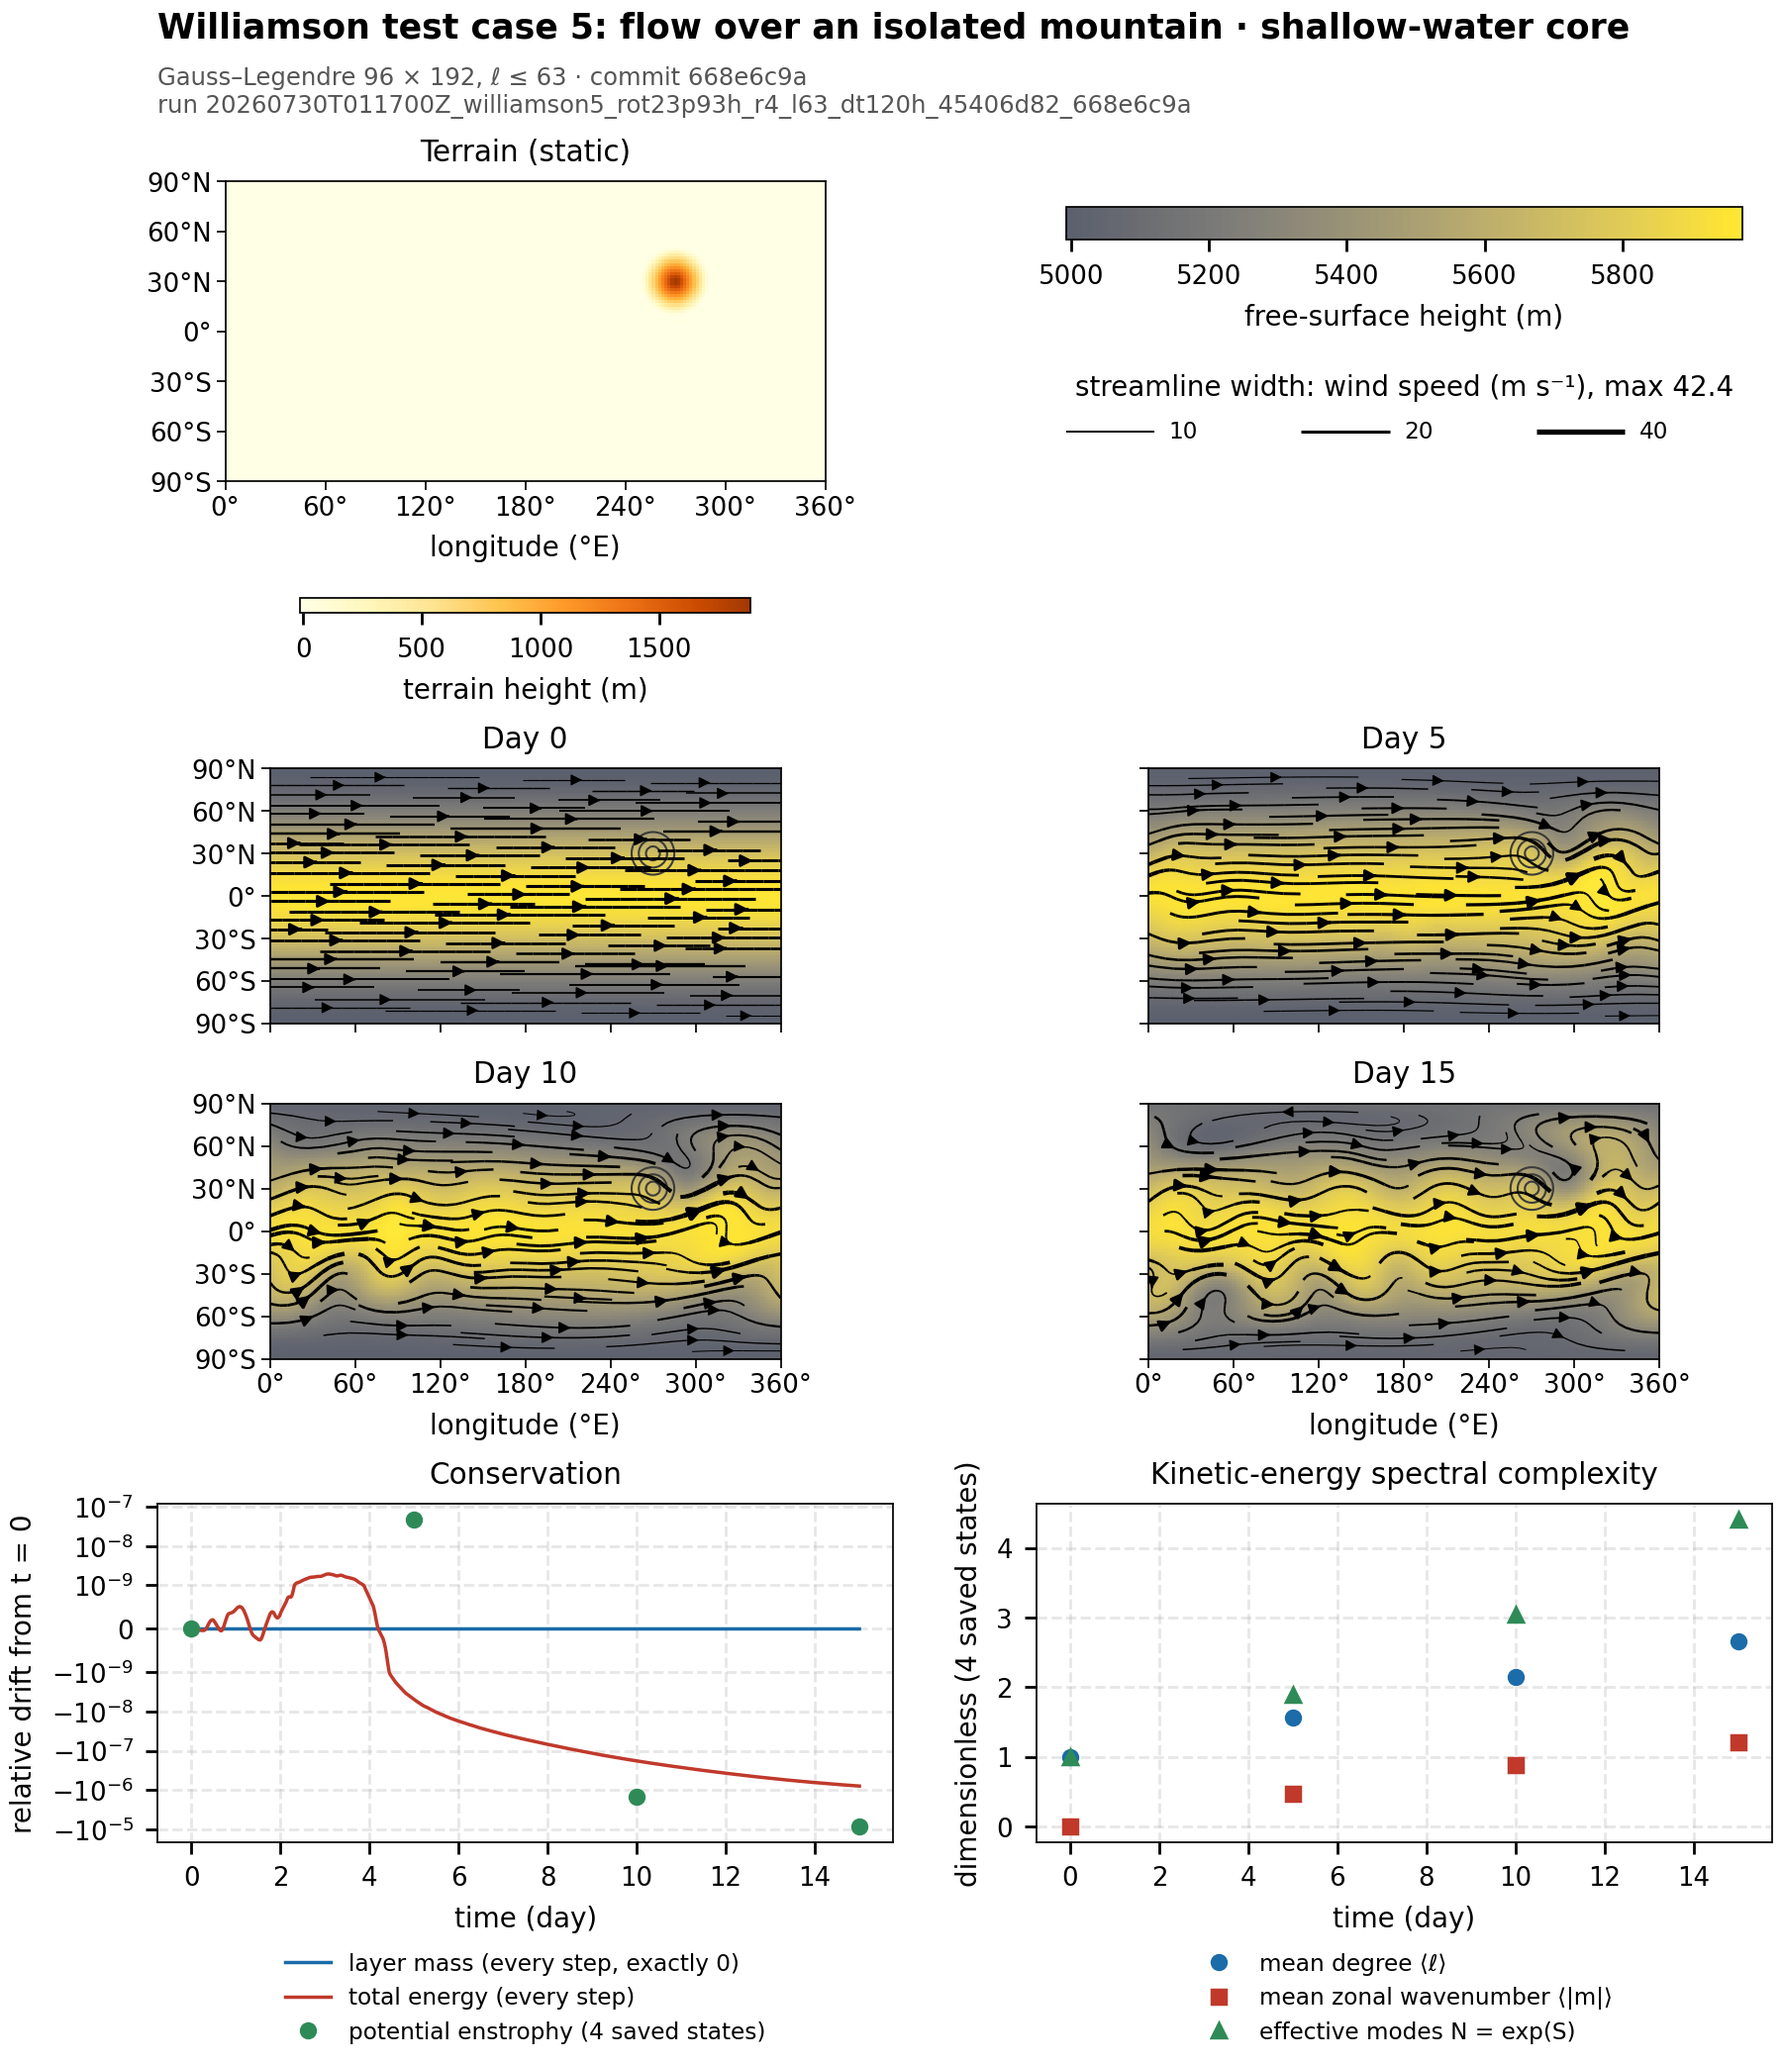
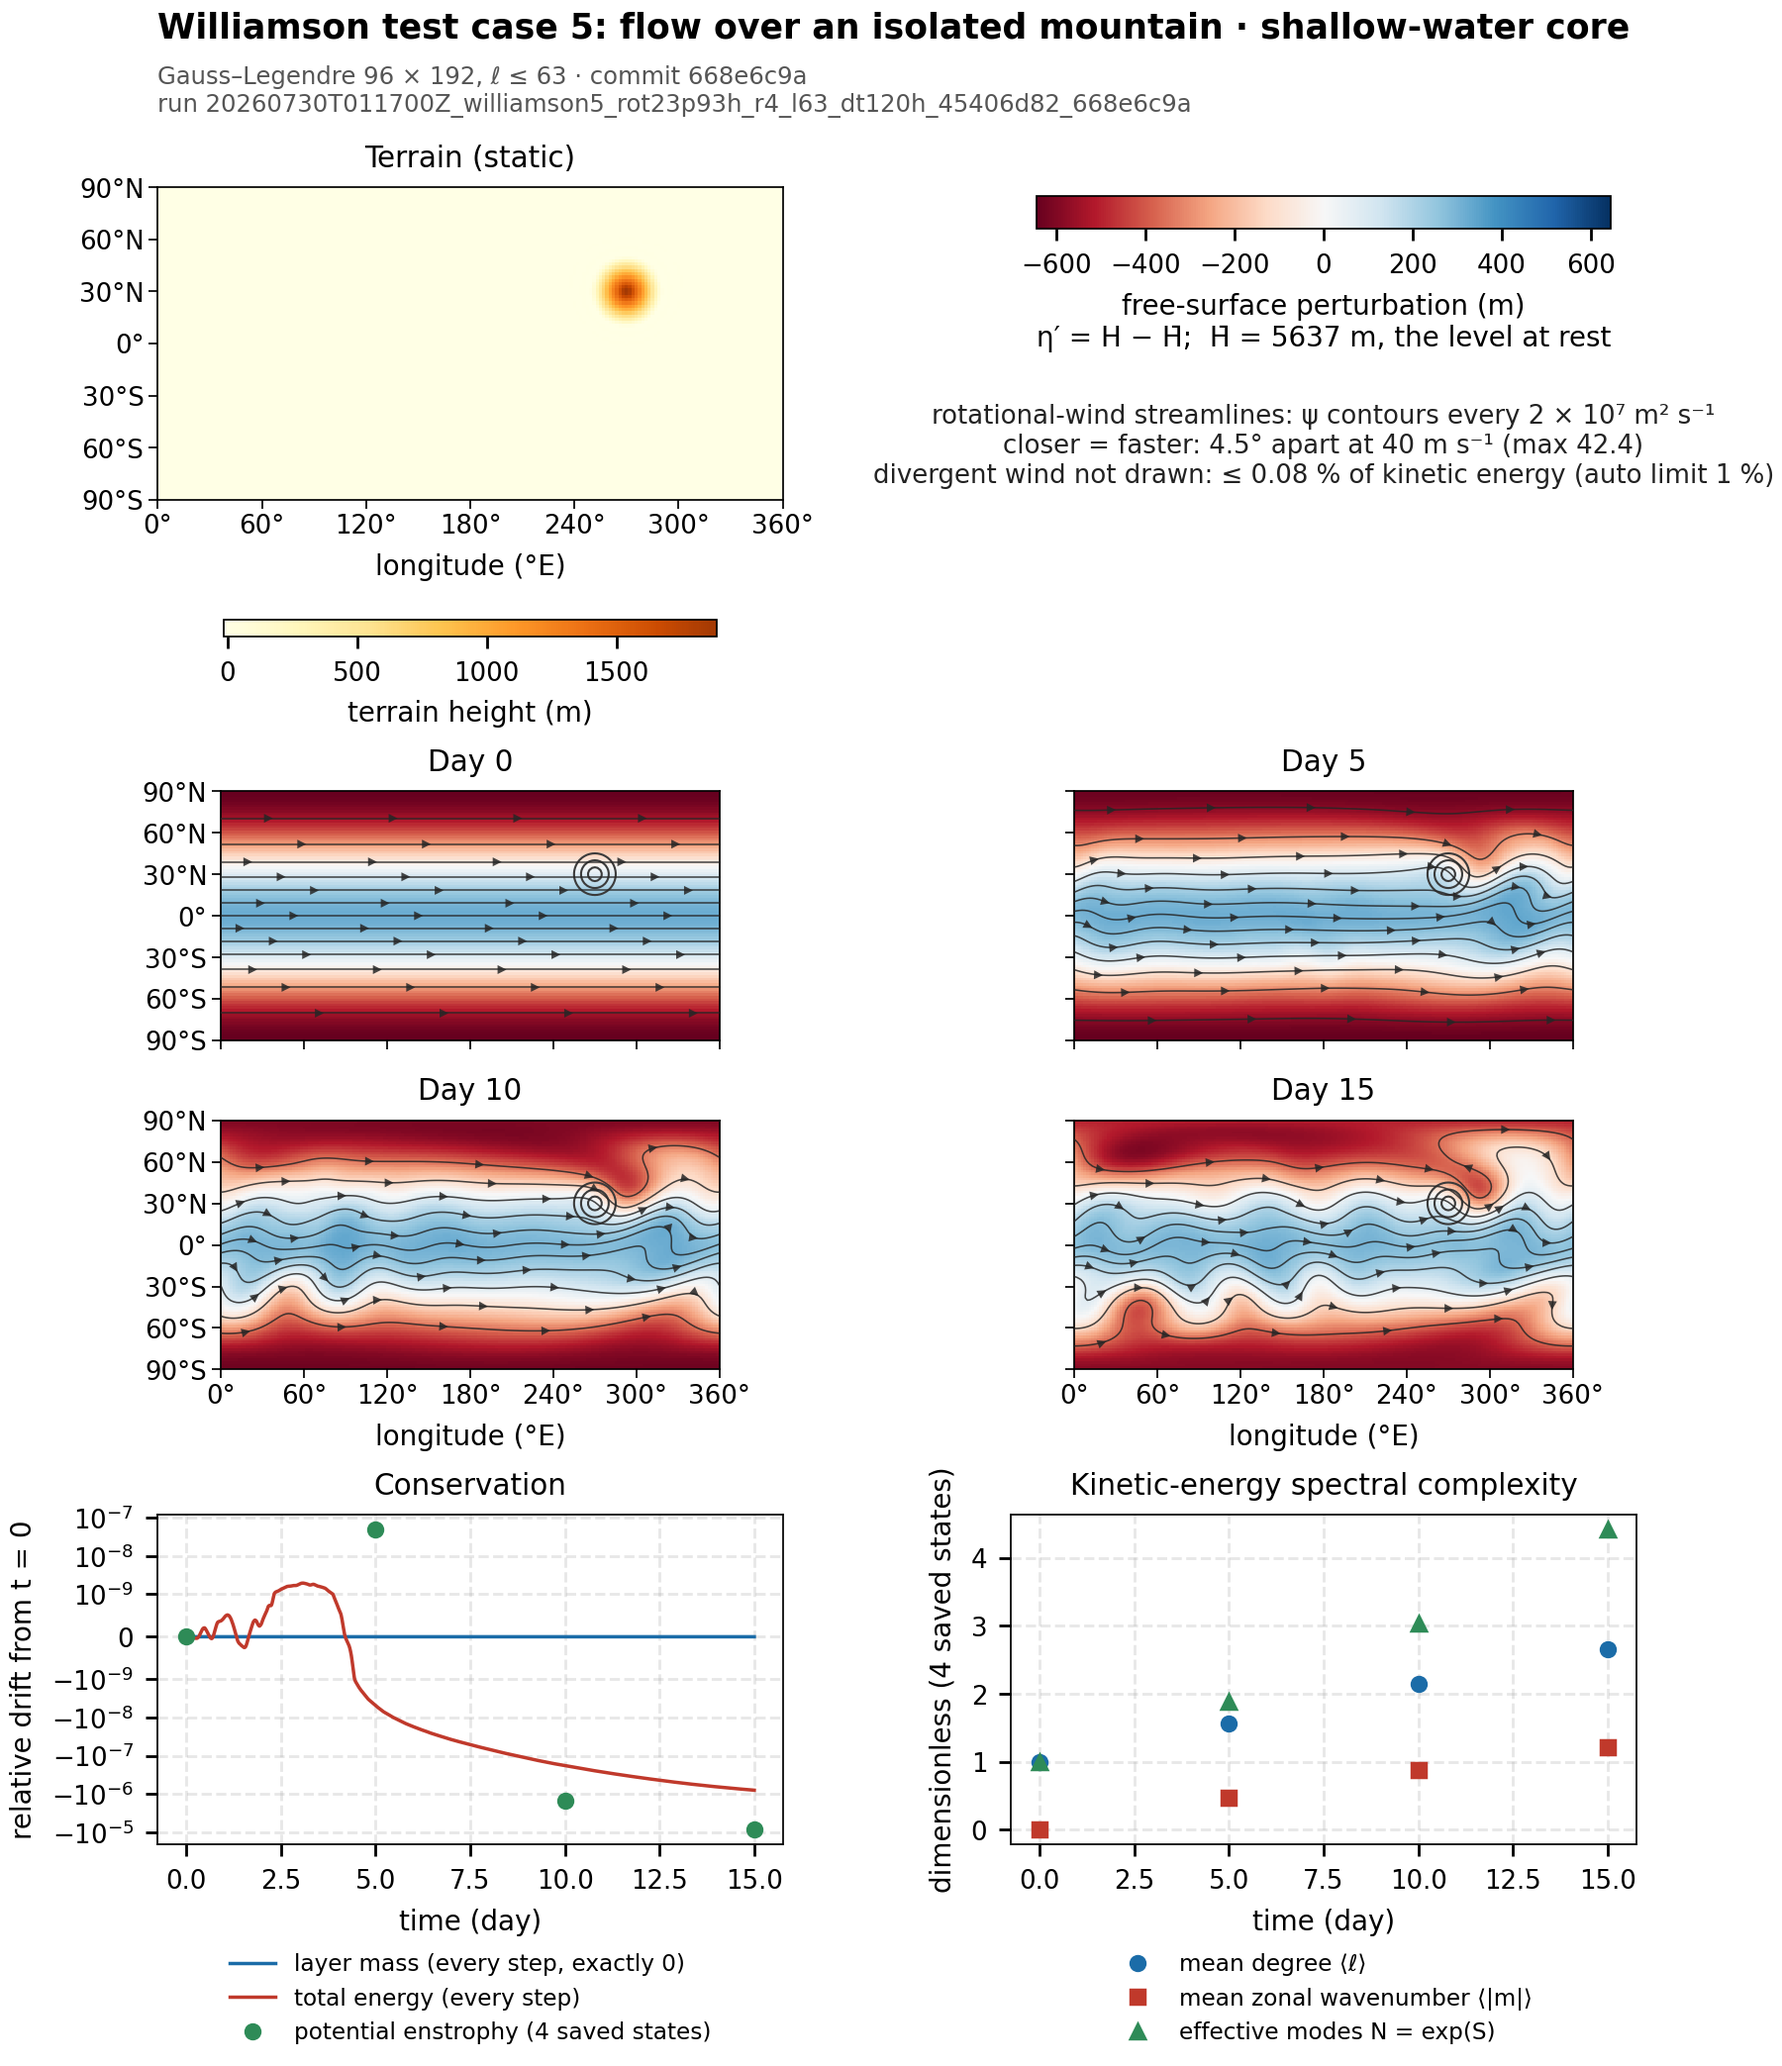
docs(readme): redraw the W5 figure with eta' and psi contours
The pinned recipe docs/figures/williamson5_t63_overview.py now draws the
free-surface perturbation eta' = H - Hbar (Hbar = 5637.36 m, the level of
the same volume at rest) on a symmetric RdBu scale, and the wind through
AutoVectors with every field of both styles spelled out. The divergent
wind carries at most 0.08 % of the kinetic energy, so psi contours are
chosen. The run's assets/overview.png and overview.json are regenerated
from it; the README caption and the run index describe the new figure, and
the README's plotting notes describe the new SWE/PE defaults.

diff --git a/docs/figures/williamson5_t63_overview.py b/docs/figures/williamson5_t63_overview.py
@@ -25,7 +25,8 @@ import pathlib
 
 from tropoi.representation.archive import open_simulation
 from tropoi.representation.visual.views import (
-    Complexity, Contours, Drift, Map, Overview, Streamlines, Style)
+    AutoVectors, Complexity, Contours, Drift, Map, Overview,
+    StreamfunctionContours, Streamlines, Style)
 
 ROOT = pathlib.Path(__file__).resolve().parents[2]
 CAPSULE = (ROOT / "docs" / "runs" /
@@ -35,18 +36,24 @@ OUTPUT = CAPSULE / "assets" / "overview.png"
 
 RECIPE = Overview(
     map=Map(
-        background="free_surface_height",
+        background="free_surface_perturbation",
         level=None,
         contours=(Contours(quantity="terrain",
                            levels=(500.0, 1000.0, 1500.0),
                            color="#3b3b3b", line_width=0.6,
                            line_style="solid"),),
-        vectors=Streamlines(vector="wind", color_by=None, color="black",
-                            width_by="speed", line_width_range=(0.25, 1.6),
-                            density=1.0, arrow_size=0.7, max_length=0.35,
-                            seed_count=220),
-        color_policy="cividis:0.35:1.0",
-        symmetric=False,
+        vectors=AutoVectors(
+            divergent_threshold=0.01,
+            streamfunction=StreamfunctionContours(
+                interval=None, level_count=20, color="#262626",
+                line_width=0.45, alpha=0.85, arrow_size=0.65,
+                arrow_spacing=80.0),
+            streamlines=Streamlines(
+                vector="wind", color_by=None, color="#303030",
+                width_by="speed", line_width_range=(0.2, 0.9), density=1.0,
+                arrow_size=0.55, max_length=0.35, seed_count=220)),
+        color_policy="RdBu",
+        symmetric=True,
         limits=None),
     snapshots=(0, 1, 2, 3),
     max_maps=4,

diff --git a/README.md b/README.md
@@ -14,14 +14,17 @@ It is **not** a climate or weather model. Its solvers are idealized: no forcing,
 no moisture, no radiation, no real or data-driven terrain. They do not model any
 particular planet, real or fictional.
 
-![Williamson test case 5 at T63: static terrain; free-surface height with streamlines at days 0, 5, 10 and 15 on one colour scale; conservation drift and kinetic-energy spectral complexity](docs/runs/20260730T011700Z_williamson5_rot23p93h_r4_l63_dt120h_45406d82_668e6c9a/assets/overview.png)
+![Williamson test case 5 at T63: static terrain; free-surface perturbation with streamfunction contours at days 0, 5, 10 and 15 on one colour scale; conservation drift and kinetic-energy spectral complexity](docs/runs/20260730T011700Z_williamson5_rot23p93h_r4_l63_dt120h_45406d82_668e6c9a/assets/overview.png)
 
 *Williamson test case 5, flow over an isolated mountain, from the canonical T63
 run (Gauss–Legendre grid 96 × 192, ℓ ≤ 63, inviscid; commit `668e6c9a`,
 2026-07-30, one GPU run). A zonal jet meets a conical mountain (top left: the
 band-limited terrain) and sets up a global wave train over 15 days. The maps
-share one free-surface-height scale; streamlines are instantaneous, with width
-proportional to wind speed, and the circles are the terrain at 500, 1000 and
+share one colour scale for the free-surface perturbation η′ = H − H̄ (blue
+above the resting level H̄ = 5637 m, red below; the blue band is the
+equatorial bulge of the balanced jet). The lines are evenly spaced contours of
+the streamfunction ψ, closer where the flow is faster; they omit the divergent
+wind, which carries at most 0.08 % of the kinetic energy. The circles are the terrain at 500, 1000 and
 1500 m. Layer mass stays bit-identical to day 0 at every step. Over 15 days,
 total energy drifts by −7.9 × 10⁻⁷ (recorded every step) and potential
 enstrophy by −8.5 × 10⁻⁶ (evaluated at the four saved states only). In
@@ -204,10 +207,10 @@ PE run; you choose the filled quantity, contours, the wind overlay, the saved
 times and the diagnostics panels:
 
 ```python
-from tropoi.representation.visual.views import Map, Streamlines
+from tropoi.representation.visual.views import Map, StreamfunctionContours
 
 sim.plot()                                   # default overview -> RUN/assets/overview.png
-sim[-1].plot("flow.png", Map(None, vectors=Streamlines()))   # streamlines alone
+sim[-1].plot("flow.png", Map(None, vectors=StreamfunctionContours()))  # streamlines alone
 sim.quantities()                             # what this run can draw: meaning, units, cadence
 ```
 
@@ -215,6 +218,7 @@ sim.quantities()                             # what this run can draw: meaning, 
 tropoi plot runs                                            # -> <latest run>/assets/overview.png
 tropoi plot runs --list-quantities                          # no GPU needed
 tropoi plot runs --map vorticity --vectors arrows --snapshots 0,-1
+tropoi plot runs --vectors streamfunction                   # psi contours (SWE/PE: rotational wind)
 ```
 
 - The fields are `zeta` (BVE), `zeta`/`delta`/`phi` (SWE), and
@@ -229,6 +233,14 @@ tropoi plot runs --map vorticity --vectors arrows --snapshots 0,-1
   checksums. `-o PATH` writes elsewhere.
 - Values that exist only at saved states, such as potential enstrophy, are
   drawn as markers, never as a per-step line.
+- BVE winds are drawn as evenly spaced contours of the streamfunction ψ. They
+  are the exact streamlines, and closer lines mean faster flow. SWE and PE
+  overviews use ψ contours too when the divergent wind carries at most 1 %
+  of the kinetic energy in every map shown. Otherwise they draw streamlines
+  integrated through the full wind, where line width, not line density,
+  shows speed. The key states which was chosen and why.
+- SWE overviews colour the free-surface perturbation η′ = H − H̄: white at
+  the level the same volume would have at rest, blue above it, red below.
 - The API does not interpolate in time or restart runs.
 
 Full reference: [docs/SAVED_RUNS.md](docs/SAVED_RUNS.md).

diff --git a/docs/runs/README.md b/docs/runs/README.md
@@ -57,10 +57,11 @@ run compared with MRI-JMA in
   numbers, drawn by the pinned recipe
   [docs/figures/williamson5_t63_overview.py](../figures/williamson5_t63_overview.py).
   Redrawing reproduces `overview.json` byte for byte. The PNG can differ from
-  the committed one in a handful of antialiased pixels: 7–19 of 3.8 million
-  were measured between processes. The fields, streamline seeds and computed
-  streamline segments are bitwise identical from run to run; the variation
-  arises when Matplotlib rasterizes the streamline layer.
+  the committed one in a few antialiased pixels (7–19 of 3.8 million were
+  measured between processes for the earlier streamline figure). Since
+  2026-09-26 the figure colours the free-surface perturbation η′ = H − H̄
+  and draws ψ contours, chosen automatically because the divergent wind
+  carries at most 0.08 % of the kinetic energy.
 - `overview_2026-07-30.png`: the previous README figure, cited by the
   validation report. It was drawn by
   [plot_swe_holistic.py](../validation/williamson_5/plot_swe_holistic.py)
